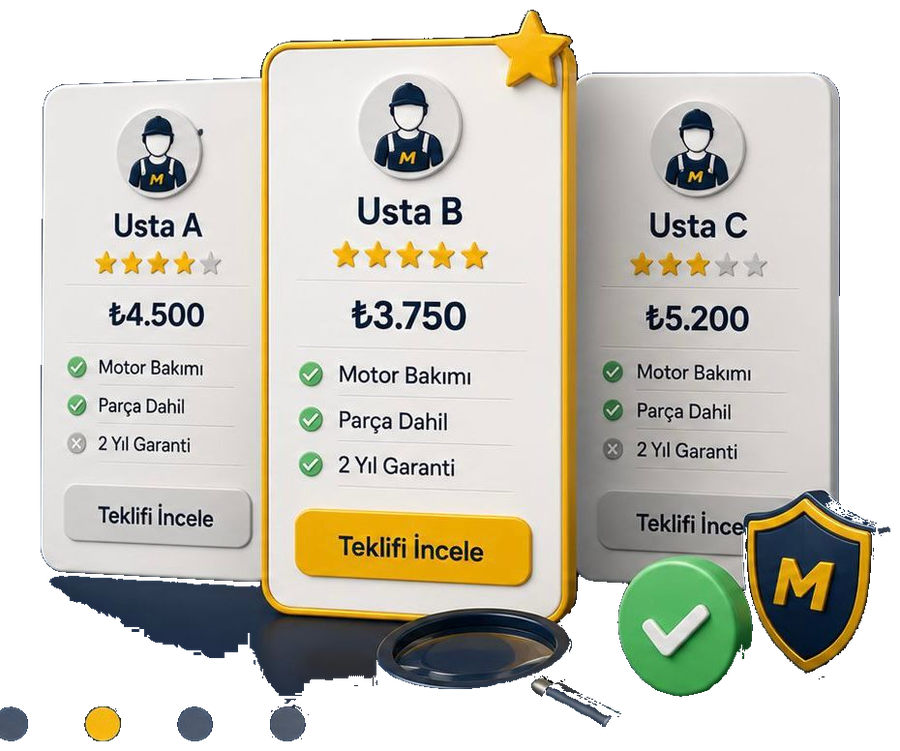
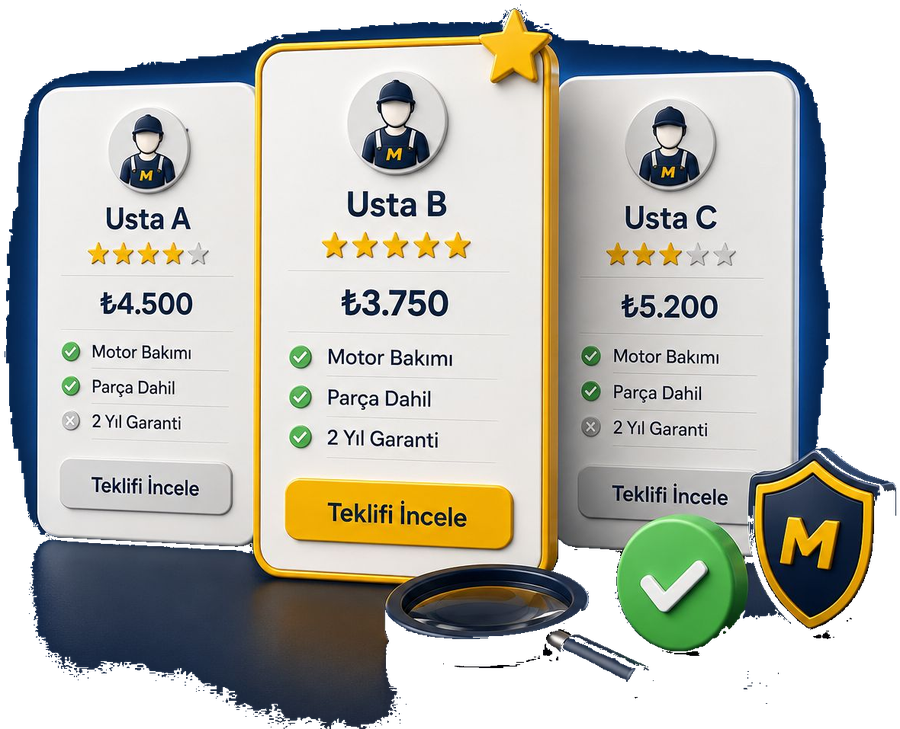
Kampanya kartı görsellerini kullanıcı görselleriyle değiştir, animasyonları kaldır
- promo-boat/offers/support/craftsmen görselleri yeni kullanıcı görselleriyle
  değiştirildi, arka planlar şeffaflaştırıldı
- PromoImage'daki zoom/glow/checklist animasyonları tamamen kaldırıldı,
  görseller artık sabit; carousel'in elle kaydırma + 5 saniyelik otomatik
  kaydırma davranışı değişmedi

Claude-Session: https://claude.ai/code/session_01XStbwL6Vr4wVqGDLyMLQ5F

diff --git a/src/screens/home/HomeScreen.tsx b/src/screens/home/HomeScreen.tsx
@@ -1,5 +1,5 @@
 import { useCallback, useEffect, useRef, useState } from "react";
-import { ScrollView, FlatList, View, Image, StyleSheet, RefreshControl, Animated, Easing, useWindowDimensions } from "react-native";
+import { ScrollView, FlatList, View, Image, StyleSheet, RefreshControl, useWindowDimensions } from "react-native";
 import type { ImageSourcePropType } from "react-native";
 import { useFocusEffect } from "@react-navigation/native";
 import { useSafeAreaInsets } from "react-native-safe-area-context";
@@ -44,13 +44,6 @@ const QUICK_ACTION_ICON = {
   profile: require("../../../assets/home-icons/home-profile.png"),
 } as const;
 
-/** Gorseldeki tek bir objeyi (siren isigi, altin M rozeti vb.) isaret eden,
- * kaynak gorsele gore oranli (0-1) konum/boyut. */
-type PromoGlowSpec = { relX: number; relY: number; relSize: number; colorA: string; colorB: string };
-
-/** Bos takvim hucrelerine sirayla "isaretlenen" yesil tik noktalari. */
-type PromoChecklistSpec = { relX: number; relY: number; relSize: number };
-
 type PromoBanner = {
   key: string;
   titleLine1: string;
@@ -58,47 +51,15 @@ type PromoBanner = {
   accentColor: string;
   subtitle: string;
   source: ImageSourcePropType;
-  aspect: number;
-  glow: PromoGlowSpec;
-  checklist?: readonly PromoChecklistSpec[];
   onPress: () => void;
 };
 
-const GOLD_GLOW = { colorA: "#C9A227", colorB: "#FCE9A8" };
-
 const PROMO_IMAGE = {
-  support: {
-    source: require("../../../assets/promo-icons/promo-support.png"),
-    aspect: 780 / 697,
-    glow: { relX: 0.842, relY: 0.724, relSize: 0.2, colorA: "#3D8BFF", colorB: "#FF4D4D" },
-  },
-  craftsmen: {
-    source: require("../../../assets/promo-icons/promo-craftsmen.png"),
-    aspect: 298 / 261,
-    glow: { relX: 0.857, relY: 0.163, relSize: 0.2, ...GOLD_GLOW },
-  },
-  boat: {
-    source: require("../../../assets/promo-icons/promo-boat.png"),
-    aspect: 900 / 652,
-    glow: { relX: 0.873, relY: 0.861, relSize: 0.16, ...GOLD_GLOW },
-  },
-  offers: {
-    source: require("../../../assets/promo-icons/promo-offers.png"),
-    aspect: 900 / 751,
-    glow: { relX: 0.906, relY: 0.744, relSize: 0.16, ...GOLD_GLOW },
-  },
-  calendar: {
-    source: require("../../../assets/promo-icons/promo-calendar.png"),
-    aspect: 900 / 647,
-    glow: { relX: 0.115, relY: 0.71, relSize: 0.18, ...GOLD_GLOW },
-    // Takvimin ust sirasindaki 3 bos hucreye sirayla "isleniyor" gibi
-    // beliren yesil tikler.
-    checklist: [
-      { relX: 0.201, relY: 0.339, relSize: 0.06 },
-      { relX: 0.314, relY: 0.339, relSize: 0.06 },
-      { relX: 0.54, relY: 0.339, relSize: 0.06 },
-    ],
-  },
+  support: { source: require("../../../assets/promo-icons/promo-support.png") },
+  craftsmen: { source: require("../../../assets/promo-icons/promo-craftsmen.png") },
+  boat: { source: require("../../../assets/promo-icons/promo-boat.png") },
+  offers: { source: require("../../../assets/promo-icons/promo-offers.png") },
+  calendar: { source: require("../../../assets/promo-icons/promo-calendar.png") },
 } as const;
 
 export function HomeScreen({ navigation }: Props) {
@@ -469,7 +430,7 @@ function PromoBannerCarousel({ banners, theme }: { banners: PromoBanner[]; theme
                   {item.subtitle}
                 </Text>
               </View>
-              <PromoImage source={item.source} aspect={item.aspect} glow={item.glow} checklist={item.checklist} />
+              <PromoImage source={item.source} />
             </View>
           </Touchable>
         )}
@@ -488,146 +449,10 @@ function PromoBannerCarousel({ banners, theme }: { banners: PromoBanner[]; theme
   );
 }
 
-/** "contain" ile sigan gorselin, konteynir icindeki gercek dikdortgenini hesaplar. */
-function containFit(containerW: number, containerH: number, sourceAspect: number) {
-  const containerAspect = containerW / containerH;
-  let w: number, h: number;
-  if (containerAspect > sourceAspect) {
-    h = containerH;
-    w = h * sourceAspect;
-  } else {
-    w = containerW;
-    h = w / sourceAspect;
-  }
-  return { w, h, offsetX: (containerW - w) / 2, offsetY: (containerH - h) / 2 };
-}
-
-/** Gorsel + hafif nefes alan zoom + tek bir odak noktasinda animasyonlu isik rozeti. */
-const CHECKLIST_GREEN = "#1FA669";
-
-function PromoImage({
-  source,
-  aspect,
-  glow,
-  checklist,
-}: {
-  source: ImageSourcePropType;
-  aspect: number;
-  glow: PromoGlowSpec;
-  checklist?: readonly PromoChecklistSpec[];
-}) {
-  const [containerSize, setContainerSize] = useState<{ w: number; h: number } | null>(null);
-  const pulse = useRef(new Animated.Value(0)).current;
-  const colorPhase = useRef(new Animated.Value(0)).current;
-  const checklistAnims = useRef((checklist ?? []).map(() => new Animated.Value(0))).current;
-
-  useEffect(() => {
-    const zoomLoop = Animated.loop(
-      Animated.sequence([
-        Animated.timing(pulse, { toValue: 1, duration: 1500, easing: Easing.inOut(Easing.ease), useNativeDriver: true }),
-        Animated.timing(pulse, { toValue: 0, duration: 1500, easing: Easing.inOut(Easing.ease), useNativeDriver: true }),
-      ])
-    );
-    const colorLoop = Animated.loop(
-      Animated.sequence([
-        Animated.timing(colorPhase, { toValue: 1, duration: 900, useNativeDriver: false }),
-        Animated.timing(colorPhase, { toValue: 0, duration: 900, useNativeDriver: false }),
-      ])
-    );
-    zoomLoop.start();
-    colorLoop.start();
-    return () => {
-      zoomLoop.stop();
-      colorLoop.stop();
-    };
-  }, [pulse, colorPhase]);
-
-  // Bos takvim hucrelerine sirayla "isleniyor" gibi beliren yesil tikler:
-  // bir bir pop-in, bir sure ekranda kal, birlikte sonup basa dön.
-  useEffect(() => {
-    if (checklistAnims.length === 0) return;
-    let cancelled = false;
-    let timeoutId: ReturnType<typeof setTimeout>;
-
-    const cycle = () => {
-      if (cancelled) return;
-      checklistAnims.forEach((v) => v.setValue(0));
-      Animated.stagger(
-        420,
-        checklistAnims.map((v) => Animated.spring(v, { toValue: 1, friction: 5, tension: 60, useNativeDriver: true }))
-      ).start(() => {
-        if (cancelled) return;
-        timeoutId = setTimeout(() => {
-          if (cancelled) return;
-          Animated.parallel(checklistAnims.map((v) => Animated.timing(v, { toValue: 0, duration: 300, useNativeDriver: true }))).start(() => {
-            if (cancelled) return;
-            timeoutId = setTimeout(cycle, 500);
-          });
-        }, 1600);
-      });
-    };
-
-    cycle();
-    return () => {
-      cancelled = true;
-      clearTimeout(timeoutId);
-    };
-  }, [checklistAnims]);
-
-  const imageScale = pulse.interpolate({ inputRange: [0, 1], outputRange: [1, 1.05] });
-  const glowColor = colorPhase.interpolate({ inputRange: [0, 1], outputRange: [glow.colorA, glow.colorB] });
-  const fit = containerSize ? containFit(containerSize.w, containerSize.h, aspect) : null;
-  const glowSize = fit ? glow.relSize * fit.w : 0;
-
+function PromoImage({ source }: { source: ImageSourcePropType }) {
   return (
-    <View style={styles.promoImageBox} onLayout={(e) => setContainerSize({ w: e.nativeEvent.layout.width, h: e.nativeEvent.layout.height })}>
-      <Animated.Image source={source} style={[styles.promoImage, { transform: [{ scale: imageScale }] }]} resizeMode="contain" />
-      {fit ? (
-        <Animated.View
-          pointerEvents="none"
-          style={{
-            position: "absolute",
-            left: fit.offsetX + glow.relX * fit.w - glowSize / 2,
-            top: fit.offsetY + glow.relY * fit.h - glowSize / 2,
-            width: glowSize,
-            height: glowSize,
-            borderRadius: glowSize / 2,
-            backgroundColor: glowColor,
-            opacity: 0.6,
-            shadowColor: glow.colorA,
-            shadowOpacity: 0.9,
-            shadowRadius: glowSize * 0.6,
-            shadowOffset: { width: 0, height: 0 },
-          }}
-        />
-      ) : null}
-      {fit
-        ? checklist?.map((c, i) => {
-            const size = c.relSize * fit.w;
-            const v = checklistAnims[i];
-            return (
-              <Animated.View
-                key={i}
-                pointerEvents="none"
-                style={{
-                  position: "absolute",
-                  left: fit.offsetX + c.relX * fit.w - size / 2,
-                  top: fit.offsetY + c.relY * fit.h - size / 2,
-                  width: size,
-                  height: size,
-                  borderRadius: size / 2,
-                  backgroundColor: CHECKLIST_GREEN,
-                  alignItems: "center",
-                  justifyContent: "center",
-                  opacity: v,
-                  transform: [{ scale: v }],
-                }}
-              >
-                <Ionicons name="checkmark" size={size * 0.62} color="#FFFFFF" />
-              </Animated.View>
-            );
-          })
-        : null}
+    <View style={styles.promoImageBox}>
+      <Image source={source} style={styles.promoImage} resizeMode="contain" />
     </View>
   );
 }
